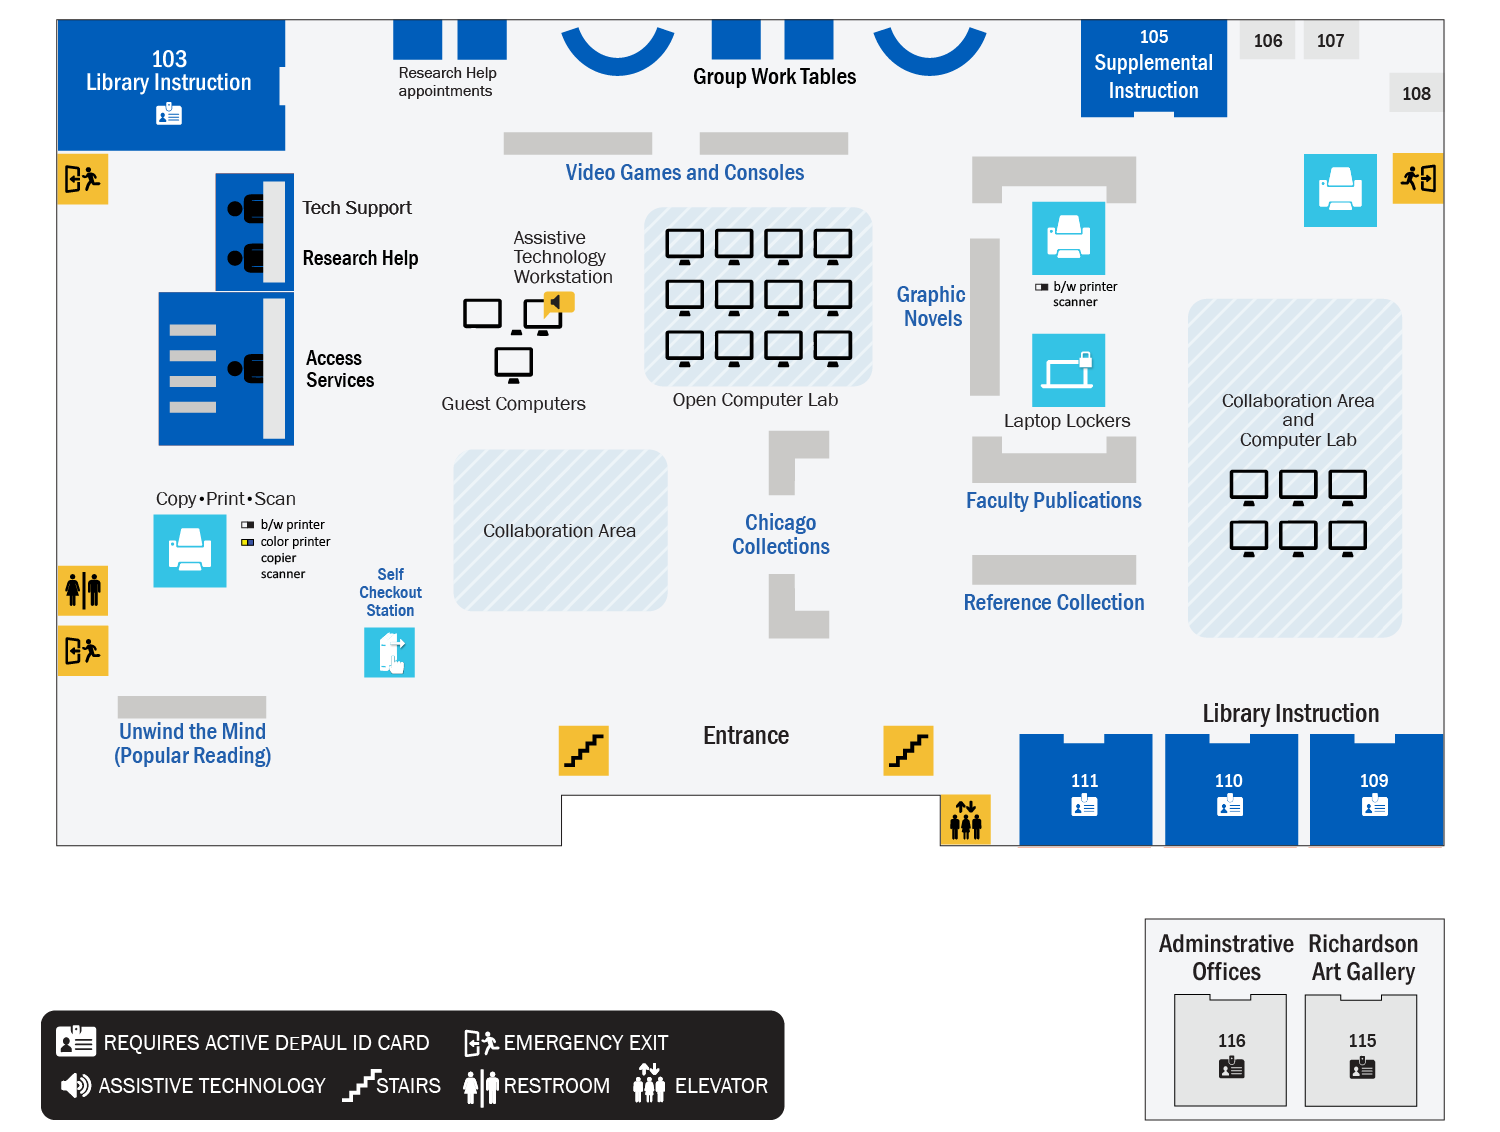
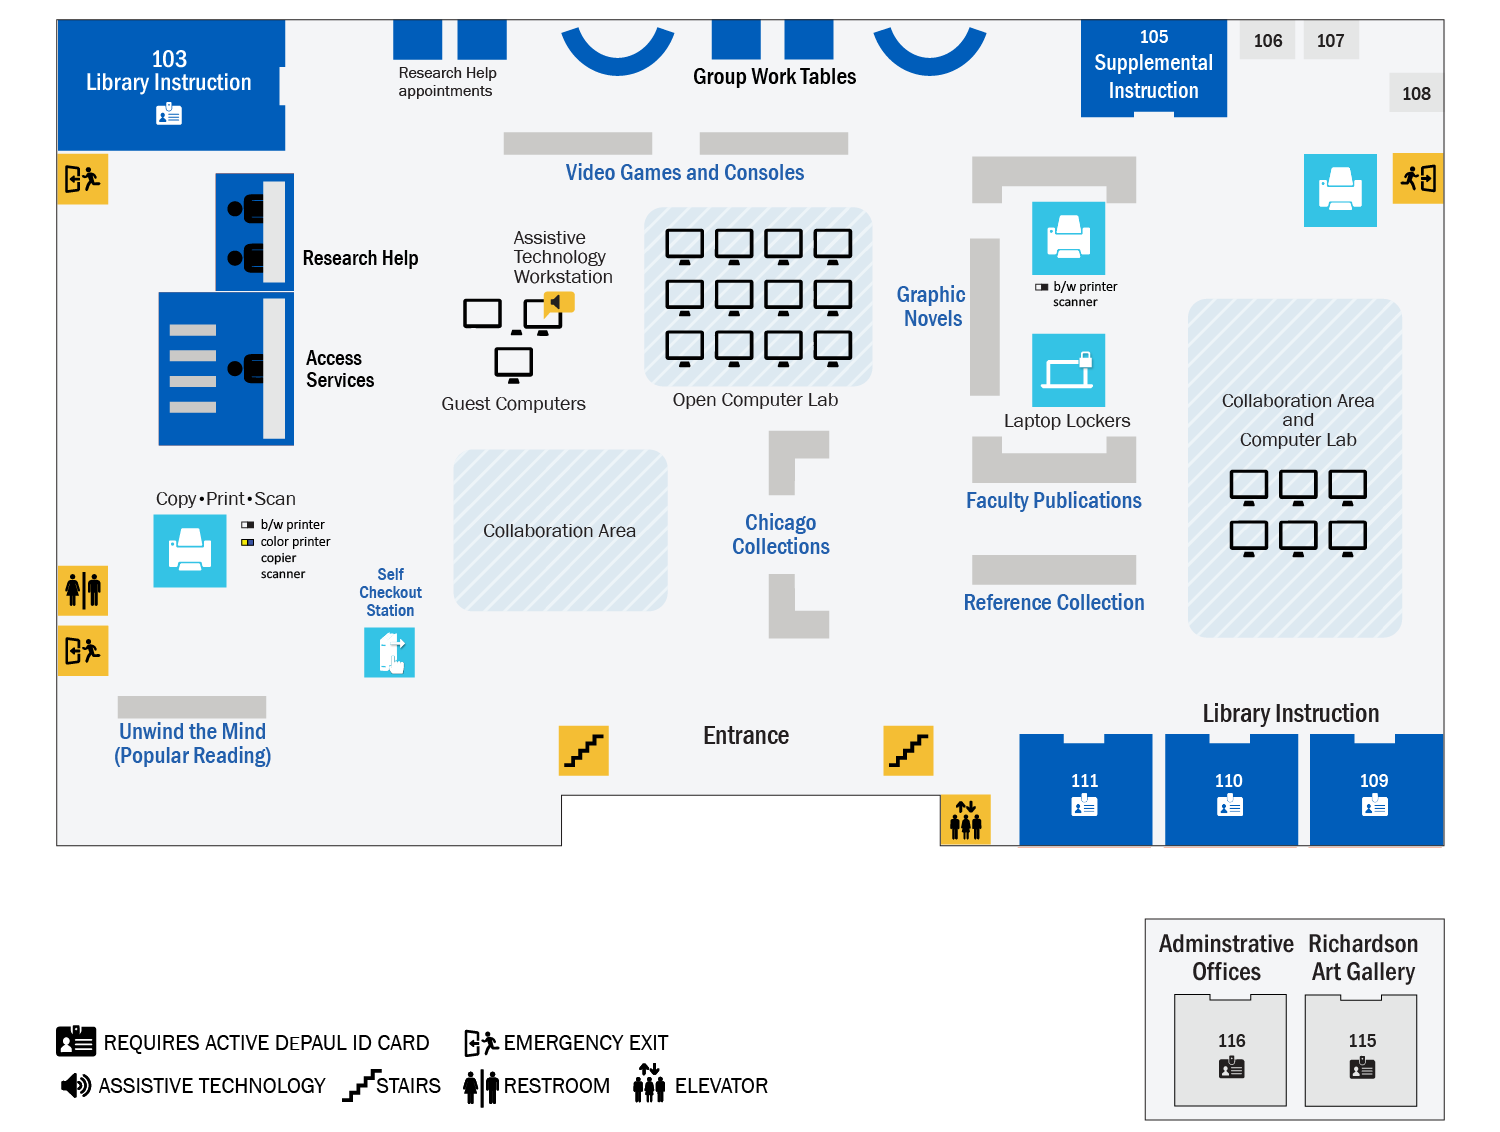
remove tech help info until new hire added

Changed region(s): [[0.0, 0.8657, 0.5213, 0.9894], [0.2453, 0.1546, 0.276, 0.1855]]

diff --git a/js/wayfinding.js b/js/wayfinding.js
@@ -35,7 +35,7 @@
         "1_instruction": 		["<p><strong>Library Instruction</strong><br /><br />Library Instruction works with faculty to create customized research instruction sessions based on the needs of courses and assignments. The goal of the instruction program is to help students develop the critical thinking and information literacy skills necessary to conduct effective library research.</p>", ["1_instruction.png"]],
         "1_laptoplockers": 		["", ["1_laptoplockers.png"]],
         "1_recreational": 		["", ["1_recreational.png"]],
-        "1_researchhelpdesk": 		["<b>Research Help Desk</b><br/><br/>Research Librarians and Peer Research Tutors help you explore your topic and show you how to search effectively for books, articles and other information (like statistics) in library databases and the web. Researchers can ask for in-depth help, or just get assistance finding a single item.<br><br>There is also lab support available to help with printing and scanning issues.", ["1_researchhelpdesk.png"]],
+        "1_researchhelpdesk": 		["<b>Research Help Desk</b><br/><br/>Research Librarians and Peer Research Tutors help you explore your topic and show you how to search effectively for books, articles and other information (like statistics) in library databases and the web. <br><br>Researchers can ask for in-depth help, or just get assistance finding a single item.", ["1_researchhelpdesk.png"]],
 		"1_supplemental": ["<p><strong>Supplemental Instruction</strong><br><br>Supplemental Instruction aims to help students successfully complete historically difficult classes through weekly&nbsp;peer-assisted&nbsp;study sessions. It is offered free program offered by the Center for Teaching and Learning.</p>", ["1_supplemental.png"]],
         "1_videogames": 		["<p><strong>Video Games &amp; Consoles</strong><br /><br />We have a number of gaming consoles and video games available for checkout at both the Richardson and Loop Libraries. Visit the catalog to see the current list of all consoles, video games, and their availability.</p>", ["1_videogames.png"]],		
 		"2_bathroomgn": 			["", ["2_bathroomgn.png"]],
